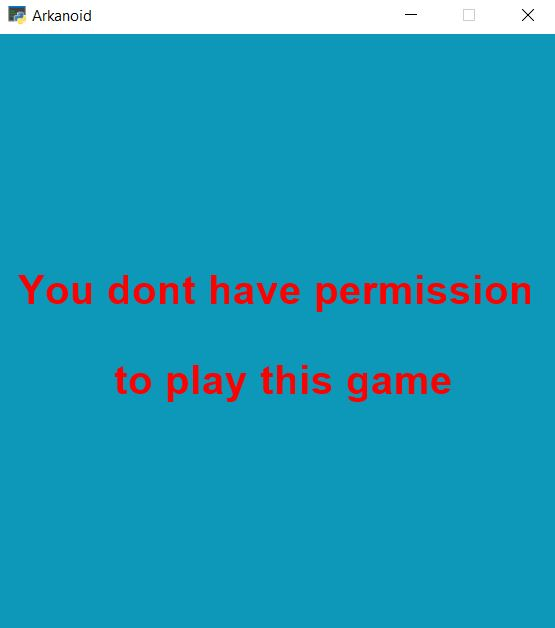
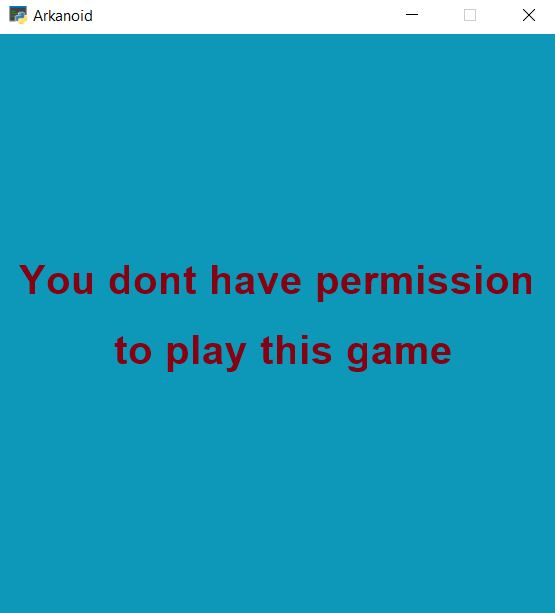
updated

Changed region(s): [[0.1838, 0.5269, 0.827, 0.6509], [0.0306, 0.4339, 0.9802, 0.4959], [0.0, 0.0, 1.0, 0.062]]

diff --git a/FaceID/arkanoid.py b/FaceID/arkanoid.py
@@ -81,8 +81,8 @@ class Game(arcade.Window):
         if self.accept_playing == False :
             self.flag = 1
             self.clear()
-            arcade.draw_text("You dont have permission ",20,330,arcade.color.RED , 30 , bold=True)
-            arcade.draw_text("\t\t\t\t\t   to play this game",20,240,arcade.color.RED , 30 , bold=True)
+            arcade.draw_text("You dont have permission ",20,340,arcade.color.RED_DEVIL , 30 , bold=True)
+            arcade.draw_text("to play this game",115,270,arcade.color.RED_DEVIL , 30 , bold=True)
 
 
     def on_key_press(self , symbol : int , modifiers : int):
@@ -95,7 +95,6 @@ class Game(arcade.Window):
         if self.ground.width//2 -5< x < self.width - self.ground.width//2 -5 :
             self.ground.center_x = x
  
-
 
     def on_update(self, delta_time: float):
         self.frog.move()

diff --git a/FaceID/README.md b/FaceID/README.md
@@ -1,0 +1,23 @@
+# Face ID 
+
+goal : creating a smart webcam based password for different programs
+
+
+# How to install :
+
+```
+pip install -r requirements.txt 
+```
+
+# How to run :
+```
+python arkanoid.py
+```
+
+# result :
+
+in case of recognizing strange person , this message will be shown in the beginning of the game :
+![img](assets/result_part3.JPG)
+
+
+or else , if identifier verify an AUTHORIZED person , game will be started normally . 

diff --git a/README.md b/README.md
@@ -52,6 +52,13 @@ python face_verification.py --image_1 "./me1.jpg" --image_2 "./me2.jpg"
 ````
 python face_identification.py --image "./group_1.JPG" --update "./face_bank/"
 ````
+
++ ### part 3 : (FaceID : use password to start programs )
+related files are in the FaceID folder . in this part , i have used arkanoid game for implementing game's entrance password .
+```
+python arkanoid.py
+```
+
 # Results :
 
 ![output](assets/result_part2.JPG)
